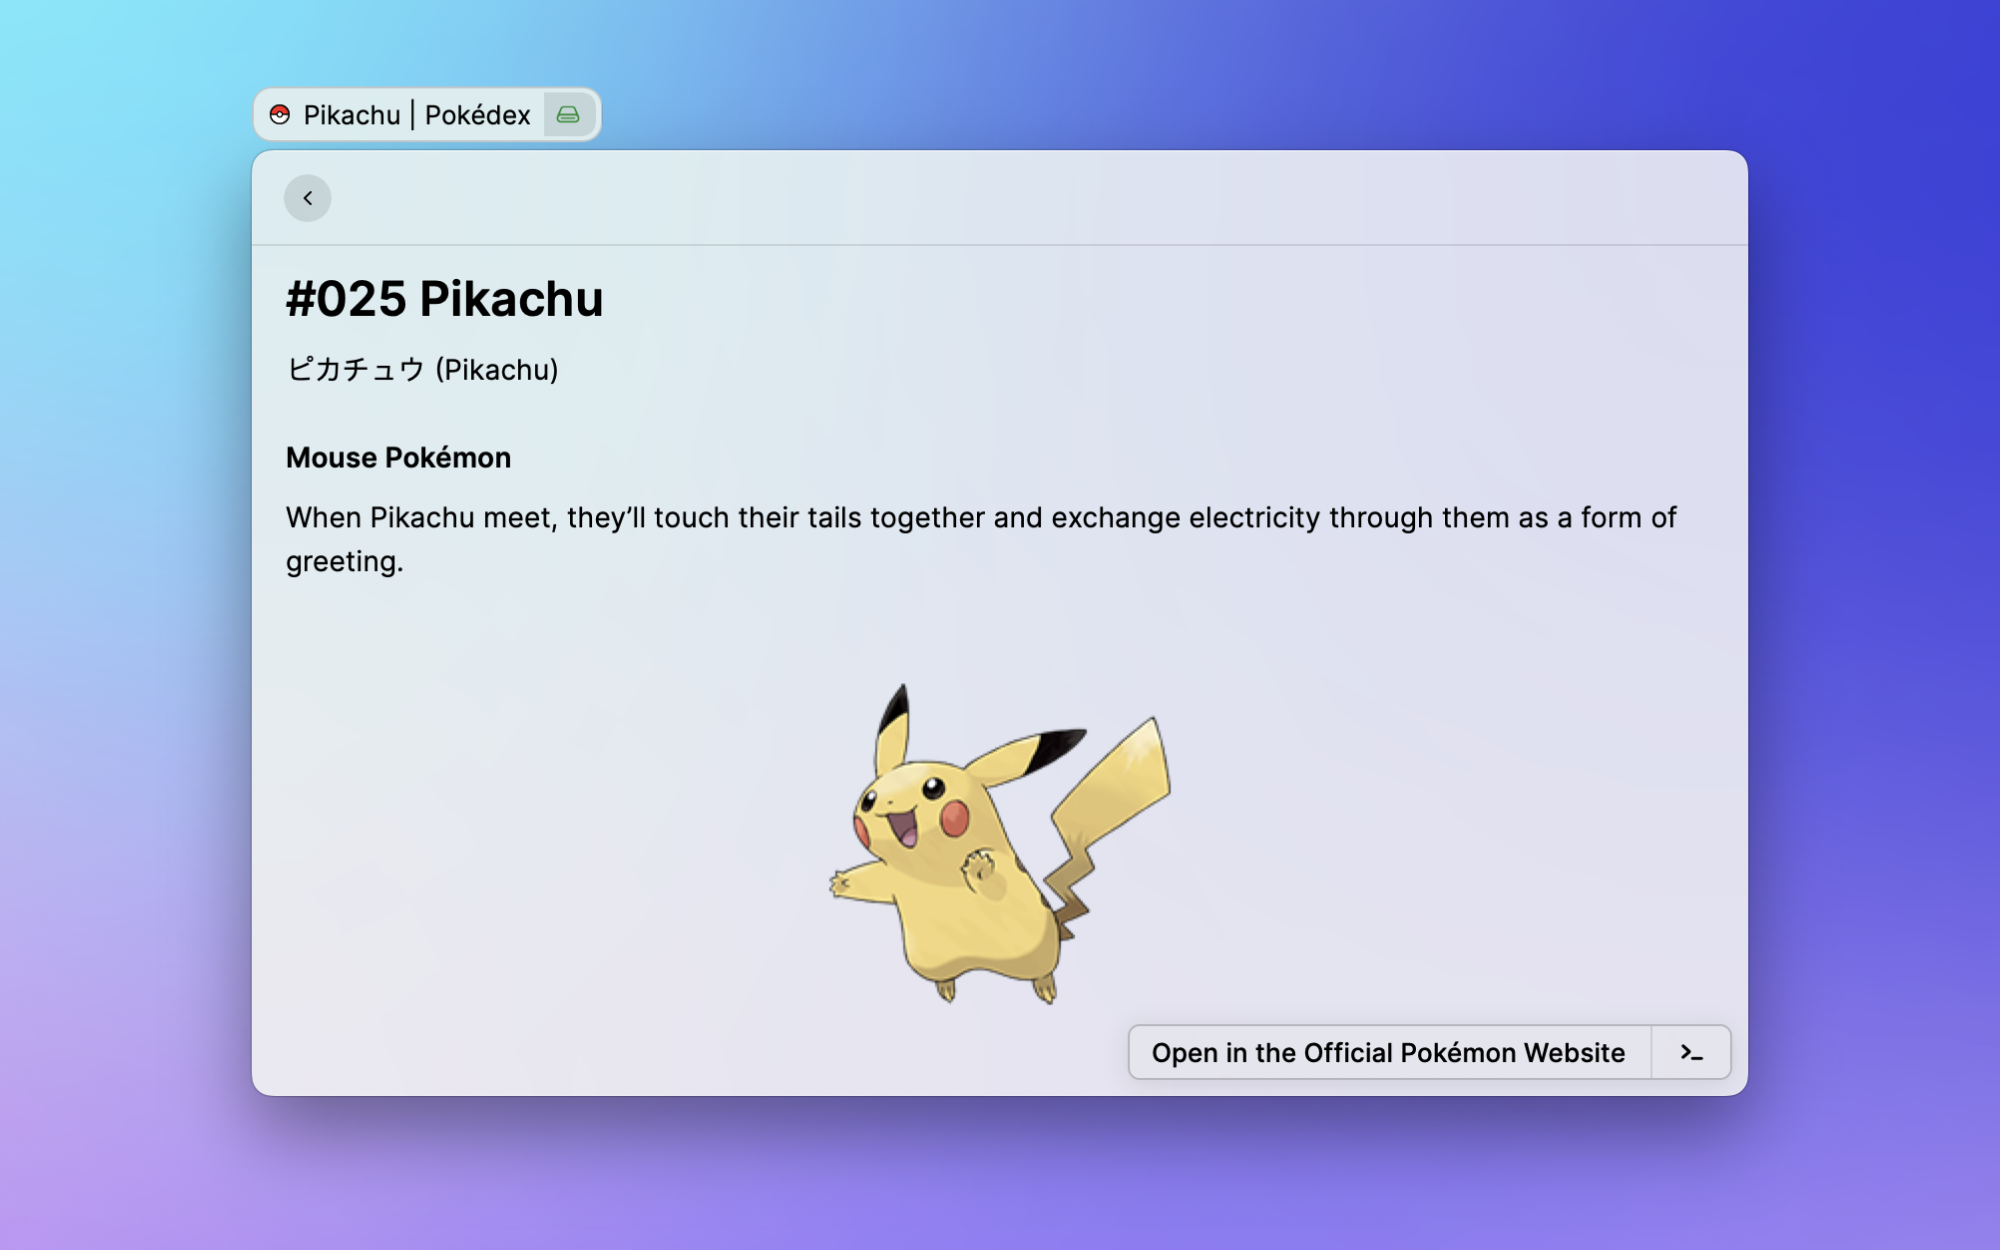
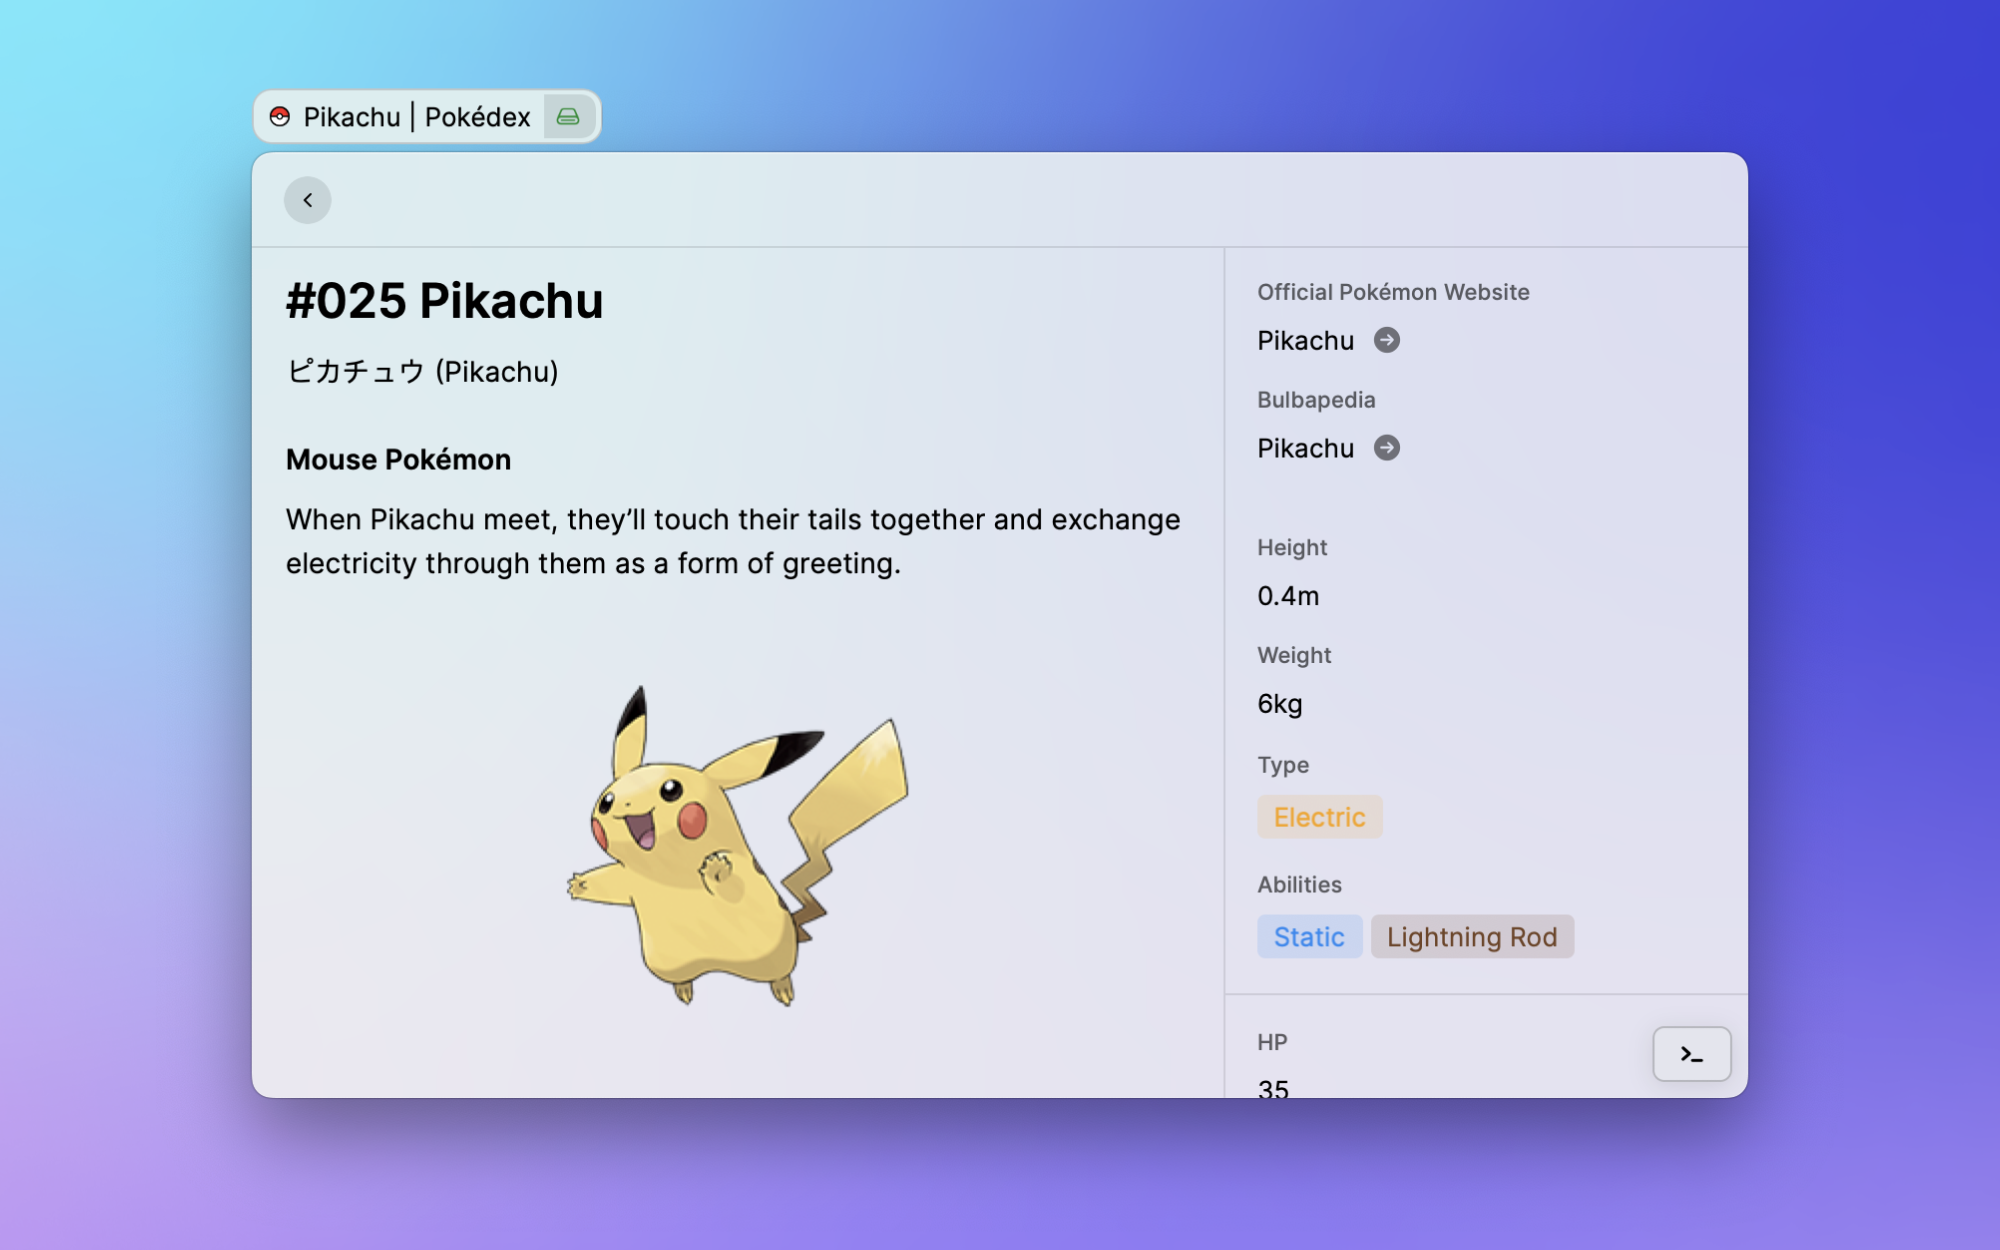
feat: update pokemon detail with latest api (#1223)

diff --git a/extensions/pokedex/src/components/detail.tsx b/extensions/pokedex/src/components/detail.tsx
@@ -1,4 +1,4 @@
-import { Action, ActionPanel, Detail, getPreferenceValues } from "@raycast/api";
+import { Color, Detail, getPreferenceValues } from "@raycast/api";
 import { useEffect, useMemo, useState } from "react";
 import json2md from "json2md";
 import { getPokemon } from "../api";
@@ -22,6 +22,27 @@ enum GrowthRate {
   "Erratic" = 5,
   "Fluctuating" = 6,
 }
+
+const typeColor: { [key: string]: string } = {
+  Normal: "#a8a77a",
+  Fire: "#ee8130",
+  Water: "#6390f0",
+  Electric: "#f7d02c",
+  Grass: "#7ac74c",
+  Ice: "#96d9d6",
+  Fighting: "#c22e28",
+  Poison: "#a33ea1",
+  Ground: "#e2bf65",
+  Flying: "#a98ff3",
+  Psychic: "#f95587",
+  Bug: "#a6b91a",
+  Rock: "#b6a136",
+  Ghost: "#735797",
+  Dragon: "#6f35fc",
+  Dark: "#705746",
+  Steel: "#b7b7ce",
+  Fairy: "#d685ad",
+};
 
 function random(lower: number, upper: number) {
   return lower + Math.floor(Math.random() * (upper - lower + 1));
@@ -85,12 +106,7 @@ export default function PokemonDetail(props: { id?: number }) {
   const dataObject: json2md.DataObject = useMemo(() => {
     if (!pokemon) return [];
 
-    const {
-      pokemon_v2_pokemonabilities,
-      pokemon_v2_pokemonspecy,
-      pokemon_v2_pokemontypes,
-      pokemon_v2_pokemonstats,
-    } = pokemon;
+    const { pokemon_v2_pokemonspecy } = pokemon;
 
     const {
       pokemon_v2_evolutionchain,
@@ -176,49 +192,6 @@ export default function PokemonDetail(props: { id?: number }) {
             source: `https://assets.pokemon.com/assets/cms2/img/pokedex/detail/${pkmNumber}.png`,
           },
         ],
-      },
-      {
-        h2: "Pokédex data",
-      },
-      {
-        p:
-          "_Type:_ " +
-          pokemon_v2_pokemontypes
-            .map((n) => n.pokemon_v2_type.pokemon_v2_typenames[0].name)
-            .join(", "),
-      },
-      { p: `_Height:_ ${pokemon.height / 10}m` },
-      { p: `_Weight:_ ${pokemon.weight / 10}kg` },
-      {
-        p: `_Abilities:_ ${pokemon_v2_pokemonabilities
-          .map((a) => {
-            if (a.is_hidden) {
-              return `${a.pokemon_v2_ability.pokemon_v2_abilitynames[0].name} (hidden)`;
-            }
-
-            return a.pokemon_v2_ability.pokemon_v2_abilitynames[0].name;
-          })
-          .join(", ")}`,
-      },
-      {
-        h2: "Base stats",
-      },
-      ...pokemon_v2_pokemonstats.map((n) => {
-        if (n.effort) {
-          ev.push(
-            `${n.effort} ${n.pokemon_v2_stat.pokemon_v2_statnames[0].name}`
-          );
-        }
-
-        return {
-          p: `_${n.pokemon_v2_stat.pokemon_v2_statnames[0].name}_: ${n.base_stat}`,
-        };
-      }),
-      {
-        p: `Total: **${pokemon_v2_pokemonstats.reduce(
-          (prev, cur) => prev + cur.base_stat,
-          0
-        )}**`,
       },
       {
         h2: "Training",
@@ -329,10 +302,7 @@ export default function PokemonDetail(props: { id?: number }) {
     return data;
   }, [pokemon]);
 
-  const englishName = () => {
-    // 9 is language_id for English
-    return nameByLang["9"].name.replace(/ /g, "_");
-  };
+  const englishName = nameByLang["9"]?.name.replace(/ /g, "_");
 
   return (
     <Detail
@@ -341,22 +311,63 @@ export default function PokemonDetail(props: { id?: number }) {
         pokemon ? `${nameByLang[language].name} | Pokédex` : "Pokédex"
       }
       markdown={json2md(dataObject)}
-      actions={
+      metadata={
         pokemon && (
-          <ActionPanel>
-            <ActionPanel.Section title="Pokémon">
-              <Action.OpenInBrowser
-                title="Open in the Official Pokémon Website"
-                icon="pokeball.svg"
-                url={`https://www.pokemon.com/us/pokedex/${pokemon.pokemon_v2_pokemonspecy.name}`}
-              />
-              <Action.OpenInBrowser
-                title="Open in Bulbapedia"
-                icon="bulbapedia.svg"
-                url={`https://bulbapedia.bulbagarden.net/wiki/${englishName()}_(Pok%C3%A9mon)`}
-              />
-            </ActionPanel.Section>
-          </ActionPanel>
+          <Detail.Metadata>
+            <Detail.Metadata.Link
+              title="Official Pokémon Website"
+              text={nameByLang[language].name}
+              target={`https://www.pokemon.com/us/pokedex/${pokemon.pokemon_v2_pokemonspecy.name}`}
+            />
+            <Detail.Metadata.Link
+              title="Bulbapedia"
+              text={englishName}
+              target={`https://bulbapedia.bulbagarden.net/wiki/${englishName}_(Pok%C3%A9mon)}`}
+            />
+            <Detail.Metadata.Separator />
+            <Detail.Metadata.Label
+              title="Height"
+              text={`${pokemon.height / 10}m`}
+            />
+            <Detail.Metadata.Label
+              title="Weight"
+              text={`${pokemon.weight / 10}kg`}
+            />
+            <Detail.Metadata.TagList title="Type">
+              {pokemon.pokemon_v2_pokemontypes.map((t) => {
+                return (
+                  <Detail.Metadata.TagList.Item
+                    key={t.pokemon_v2_type.pokemon_v2_typenames[0].name}
+                    text={t.pokemon_v2_type.pokemon_v2_typenames[0].name}
+                    color={
+                      typeColor[t.pokemon_v2_type.pokemon_v2_typenames[0].name]
+                    }
+                  />
+                );
+              })}
+            </Detail.Metadata.TagList>
+            <Detail.Metadata.TagList title="Abilities">
+              {pokemon.pokemon_v2_pokemonabilities.map((t) => {
+                return (
+                  <Detail.Metadata.TagList.Item
+                    key={t.pokemon_v2_ability.pokemon_v2_abilitynames[0].name}
+                    text={t.pokemon_v2_ability.pokemon_v2_abilitynames[0].name}
+                    color={t.is_hidden ? Color.Brown : Color.Blue}
+                  />
+                );
+              })}
+            </Detail.Metadata.TagList>
+            <Detail.Metadata.Separator />
+            {pokemon.pokemon_v2_pokemonstats.map((stat, idx) => {
+              return (
+                <Detail.Metadata.Label
+                  key={idx}
+                  title={stat.pokemon_v2_stat.pokemon_v2_statnames[0].name}
+                  text={stat.base_stat.toString()}
+                />
+              );
+            })}
+          </Detail.Metadata>
         )
       }
     />

diff --git a/extensions/pokedex/src/pokemon.tsx b/extensions/pokedex/src/pokemon.tsx
@@ -53,7 +53,9 @@ export default function SearchPokemon() {
           <List.Item
             key="surprise"
             title="Surprise Me!"
-            accessoryTitle={showPreview ? undefined : "Random Pokémon selector"}
+            accessories={
+              showPreview ? undefined : [{ text: "Random Pokémon selector" }]
+            }
             icon="icon_sort.svg"
             actions={
               <ActionPanel>
@@ -98,6 +100,9 @@ export default function SearchPokemon() {
             {pokemonList.map((pokemon) => {
               const props: Partial<List.Item.Props> = showPreview
                 ? {
+                    accessories: pokemon.types.map((type) => ({
+                      icon: `types/${type.toLowerCase()}.svg`,
+                    })),
                     detail: (
                       <List.Item.Detail
                         markdown={json2md([
@@ -116,8 +121,10 @@ export default function SearchPokemon() {
                     ),
                   }
                 : {
-                    accessoryTitle: pokemon.types.join(", "),
-                    accessoryIcon: `types/${pokemon.types[0].toLowerCase()}.svg`,
+                    accessories: pokemon.types.map((type) => ({
+                      text: type,
+                      icon: `types/${type.toLowerCase()}.svg`,
+                    })),
                     icon: {
                       source: pokemon.artwork,
                       fallback: "icon.png",

diff --git a/extensions/pokedex/src/move.tsx b/extensions/pokedex/src/move.tsx
@@ -56,8 +56,12 @@ export default function Move() {
                   title={move.name}
                   subtitle={showPreview ? undefined : move.short_effect}
                   icon={`moves/${move.damage_class || "status"}.svg`}
-                  accessoryTitle={move.type}
-                  accessoryIcon={`types/${move.type.toLowerCase()}.svg`}
+                  accessories={[
+                    {
+                      text: move.type,
+                      icon: `types/${move.type.toLowerCase()}.svg`,
+                    },
+                  ]}
                   detail={
                     showPreview ? (
                       <List.Item.Detail

diff --git a/extensions/pokedex/CHANGELOG.md b/extensions/pokedex/CHANGELOG.md
@@ -22,6 +22,6 @@
 - Added Pokémon details by prefered language. Supported: English (default), French, German, Italian, Japanese, Korean, Spanish
 - Fixed extension icon
 
-## [Pokédex] - 2022-02-18
+## [Initial Version] - 2022-02-18
 
-Initial Version
+- Added Pokédex
